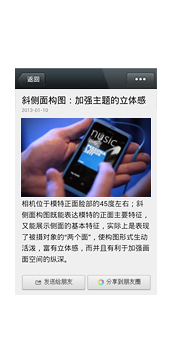
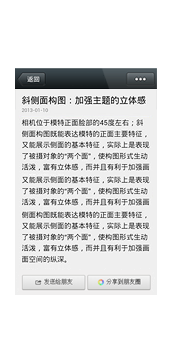
图文详细页模板“详情3"优化

Changed region(s): [[0.1176, 0.3116, 0.9118, 0.5921]]

diff --git a/new_weixin/tpl/Wap/default/Index/content3.html b/new_weixin/tpl/Wap/default/Index/content3.html
@@ -14,6 +14,7 @@
 <style type="text/css">
 .pub_time{font-size:14px;color:#999;}
 .content{padding:5px;}
+#news{min-width: 0;}
 </style>
 
 </head>
@@ -26,9 +27,9 @@
 			    
 	<div class="pub_time">{ZF:$res.createtime|date="Y-m-d",###}</div>
 	
-	<eq name="res.showpic" value="1">
+	<!--<eq name="res.showpic" value="1">
 		<div class="showpic"><img src="{ZF:$res.pic}" /></div> 
-	</eq>
+	</eq>  -->
 	
 	<php>echo htmlspecialchars_decode($res['info'])</php>
 	
